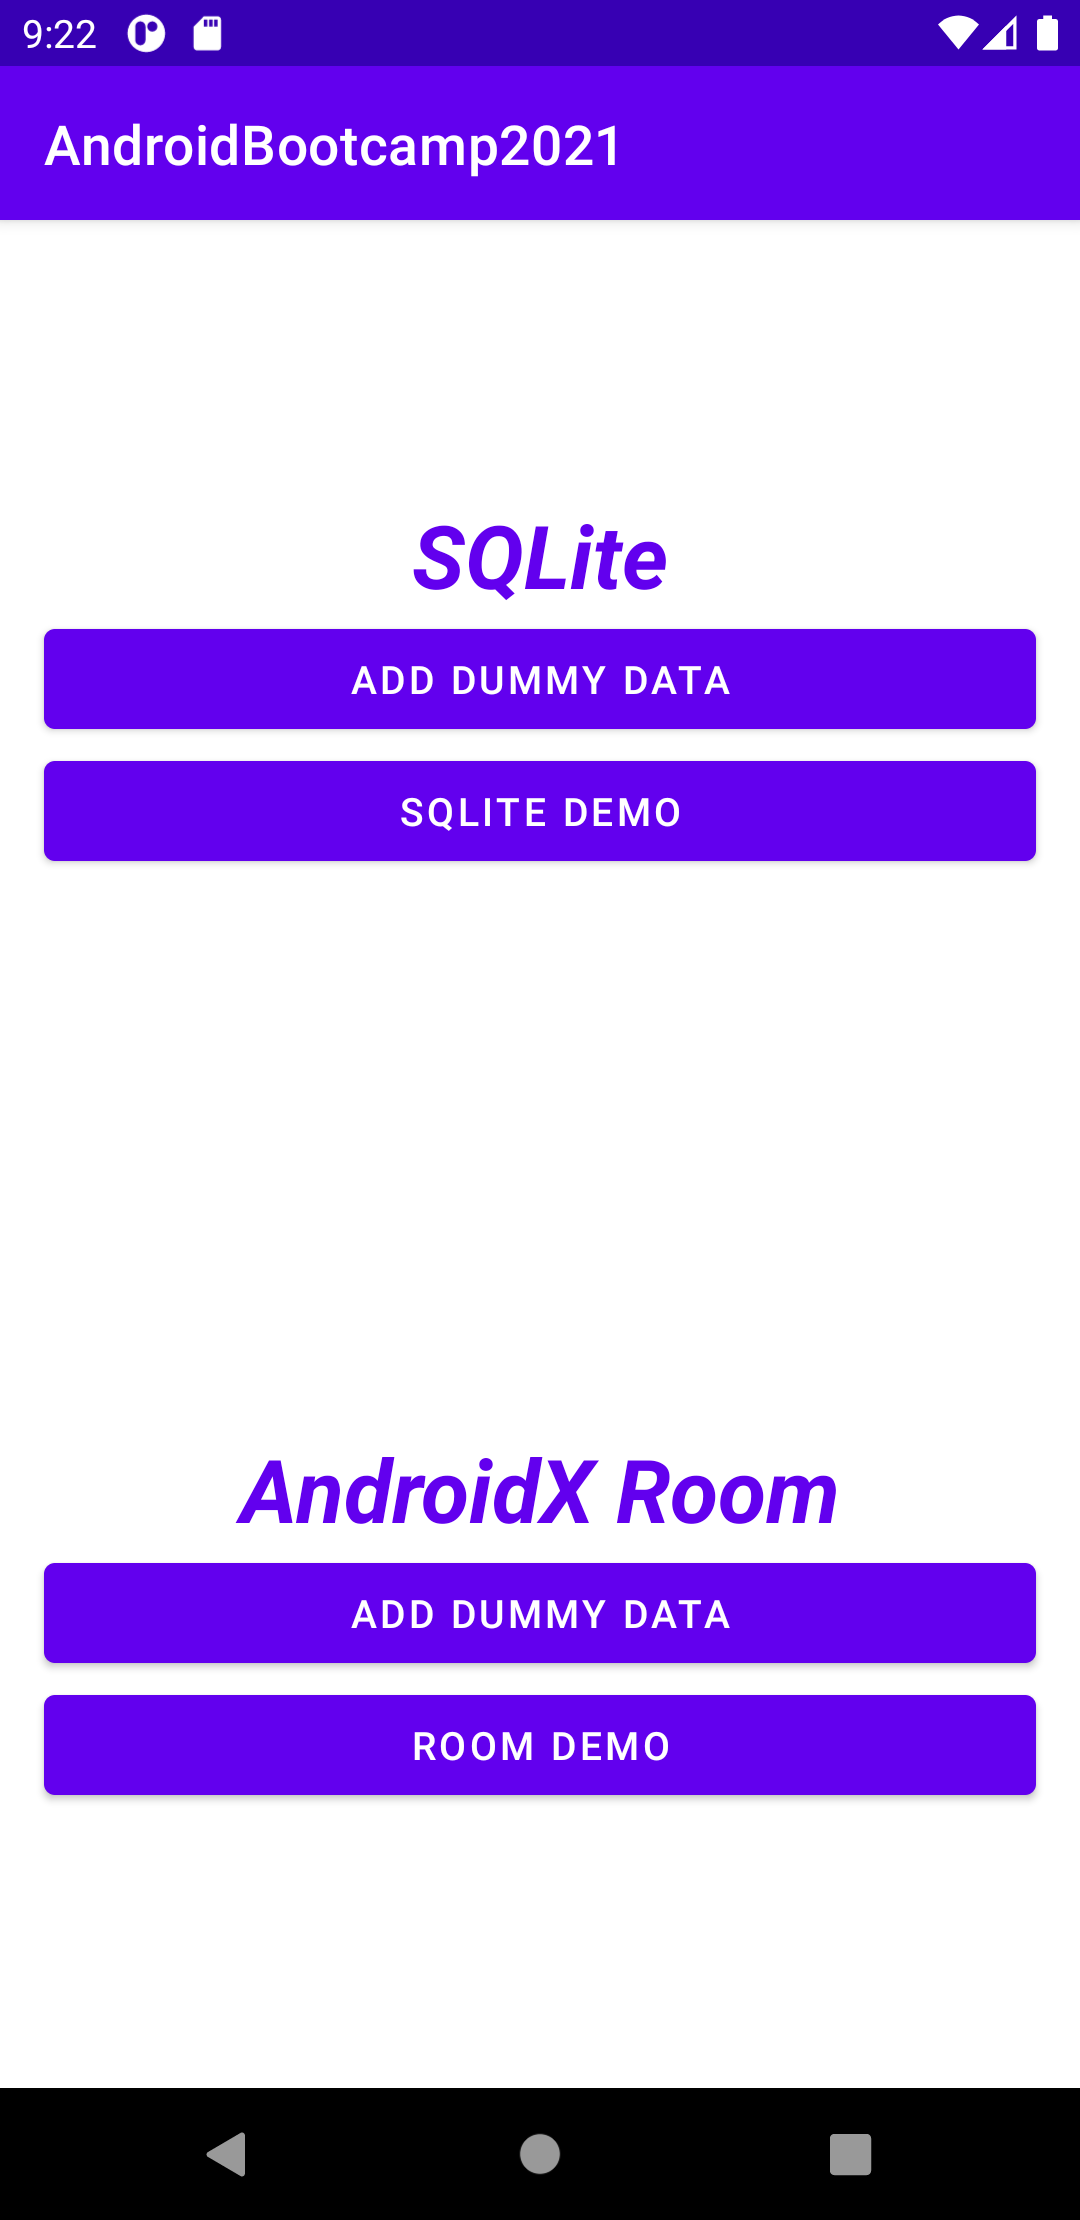
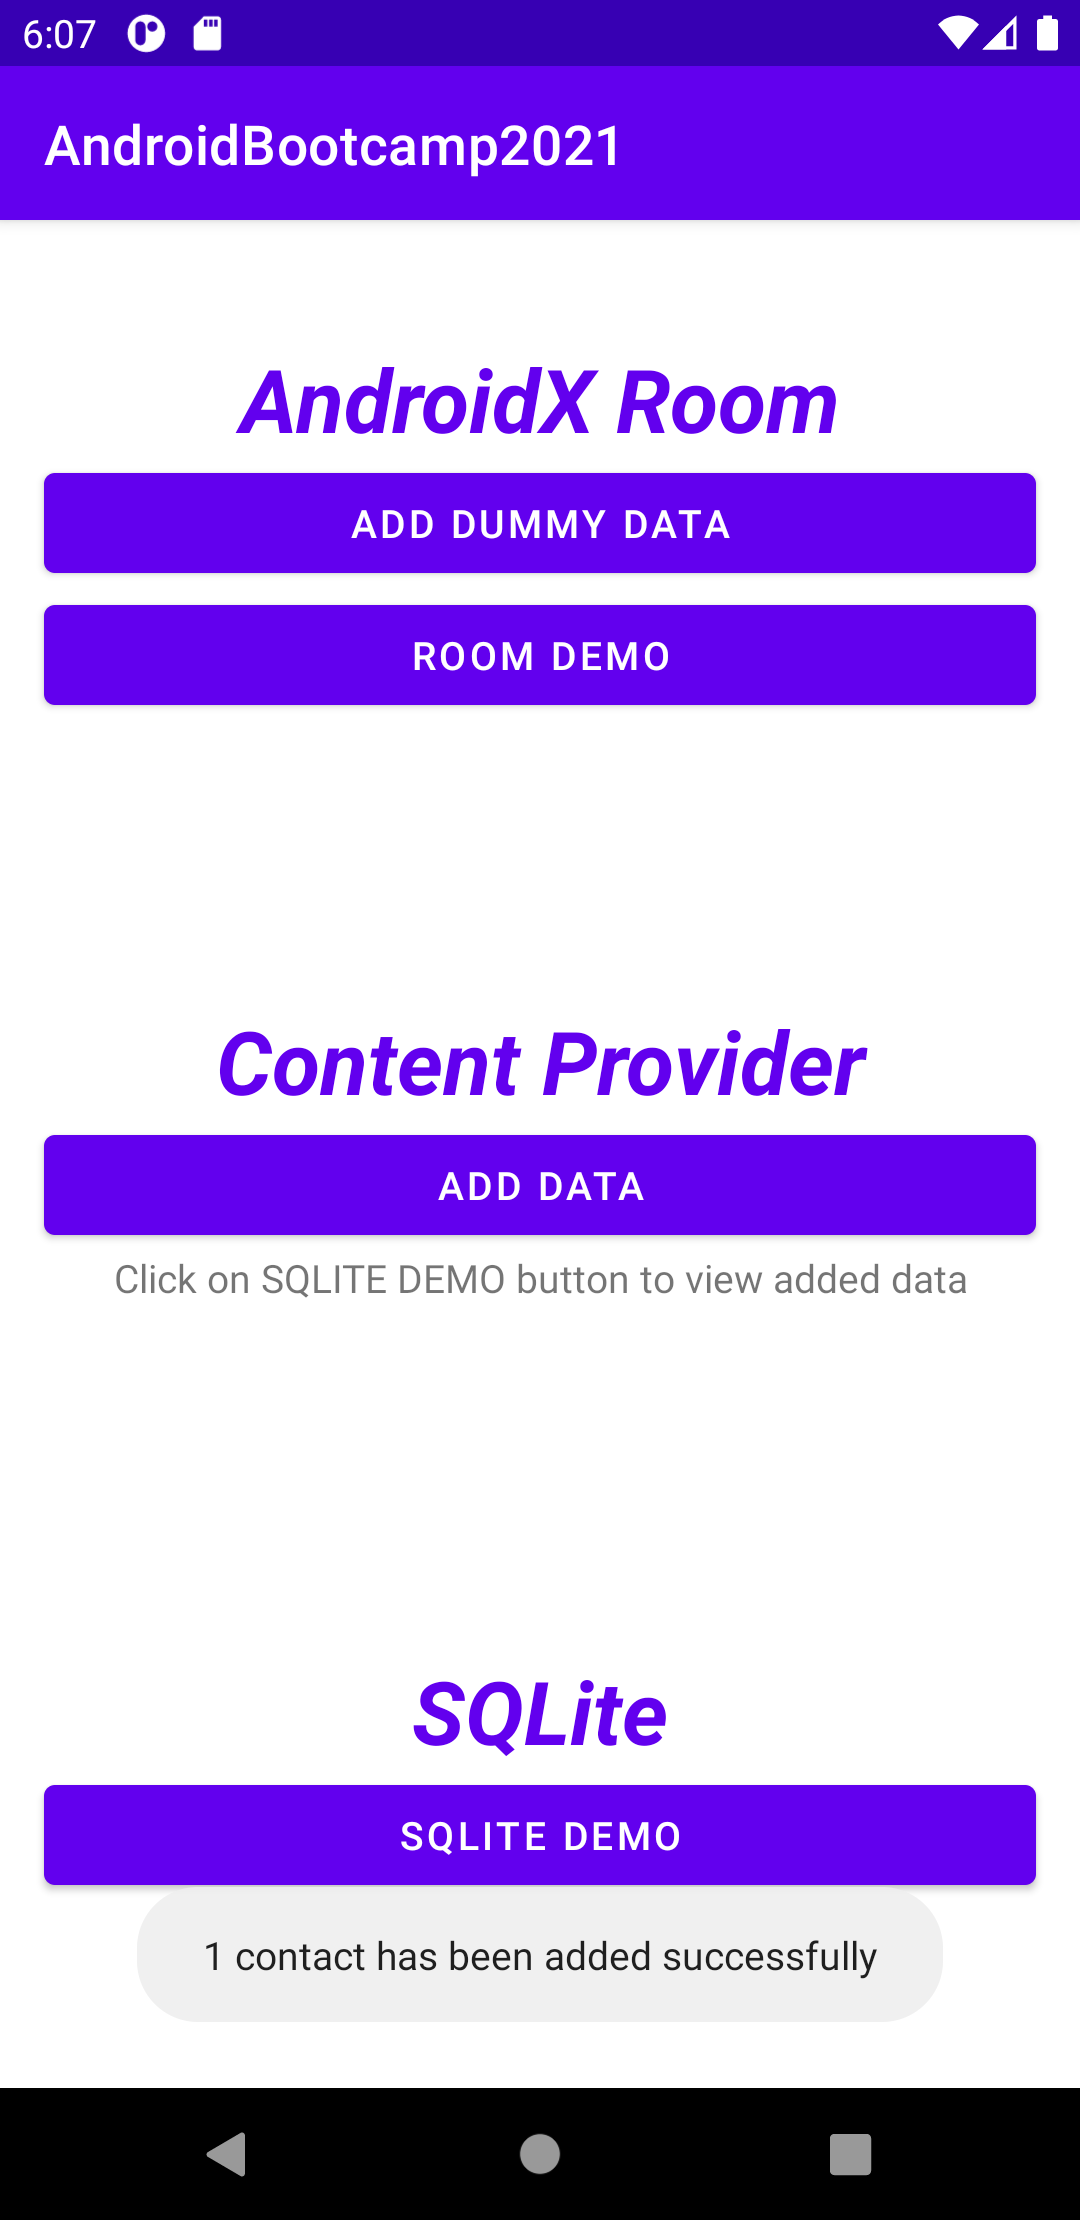
Added content provider demo with outputs

diff --git a/app/src/main/java/com/example/androidbootcamp2021/activities/MainActivity.kt b/app/src/main/java/com/example/androidbootcamp2021/activities/MainActivity.kt
@@ -1,13 +1,12 @@
 package com.example.androidbootcamp2021.activities
 
-import android.app.Activity
-import android.content.ContentResolver
+import android.Manifest
 import android.content.Intent
-import android.net.Uri
+import android.content.pm.PackageManager
+import android.os.Build
 import androidx.appcompat.app.AppCompatActivity
 import android.os.Bundle
-import android.util.Log
-import android.webkit.MimeTypeMap
+import android.provider.ContactsContract
 import android.widget.Toast
 import com.example.androidbootcamp2021.EmployeeDataClass
 import com.example.androidbootcamp2021.R
@@ -18,26 +17,20 @@ import java.util.concurrent.Executors
 
 class MainActivity : AppCompatActivity() {
 
-    val PICKFILE_REQUEST_CODE = 1
-    val TAG = "FilePickerActvity"
+    val TAG = "MainActivity"
+    val contactHashMap = HashMap<String, String>()
 
     override fun onCreate(savedInstanceState: Bundle?) {
         super.onCreate(savedInstanceState)
         setContentView(R.layout.activity_main)
 
-        // Using Kotlin Extensions so we don't
-        // need to get the reference of view
-        // We can directly use the id of view
-        addSQLiteDummyDataBtn.setOnClickListener {
-            insertDataInDBUsingSQLite()
-            Toast.makeText(this, "Data added successfully", Toast.LENGTH_LONG).show()
-        }
-
         sqliteDemoBtn.setOnClickListener {
-            startActivity(Intent(this, DatabaseActivity::class.java).putExtra(
-                BUTTON_CLICKED_KEY,
-                SQLITE_DEMO_BTN
-            ))
+            startActivity(
+                Intent(this, DatabaseActivity::class.java).putExtra(
+                    BUTTON_CLICKED_KEY,
+                    SQLITE_DEMO_BTN
+                )
+            )
         }
 
         addDummyRoomDataBtn.setOnClickListener {
@@ -46,116 +39,89 @@ class MainActivity : AppCompatActivity() {
         }
 
         roomDemoBtn.setOnClickListener {
-            startActivity(Intent(this, DatabaseActivity::class.java).putExtra(
-                BUTTON_CLICKED_KEY,
-                ROOM_DEMO_BTN
-            ))
+            startActivity(
+                Intent(this, DatabaseActivity::class.java).putExtra(
+                    BUTTON_CLICKED_KEY,
+                    ROOM_DEMO_BTN
+                )
+            )
         }
 
-        openFileBtn.setOnClickListener {
-            chooseFile()
+        contentProviderBtn.setOnClickListener {
+            loadContacts()
         }
 
 
     }
 
-    private fun chooseFile() {
-        var chooseFile = Intent(Intent.ACTION_GET_CONTENT)
-        chooseFile.type = "*/*"
-        chooseFile = Intent.createChooser(chooseFile, "Select a file")
-        startActivityForResult(chooseFile, PICKFILE_REQUEST_CODE)
+    private fun loadContacts() {
+        if (Build.VERSION.SDK_INT >= Build.VERSION_CODES.M && checkSelfPermission(
+                Manifest.permission.READ_CONTACTS) != PackageManager.PERMISSION_GRANTED) {
+            requestPermissions(arrayOf(Manifest.permission.READ_CONTACTS),
+                PERMISSIONS_REQUEST_READ_CONTACTS)
+            //callback onRequestPermissionsResult
+        } else {
+            val contactHM = getContacts()
+            if (contactHM.size > 0) {
+                for (contact in contactHM) {
+                    insertDataInDBUsingSQLite(contact.key, contact.value)
+                }
+                Toast.makeText(this, "${contactHM.size} contact has been added successfully", Toast.LENGTH_LONG).show()
+            }
+        }
     }
 
-    override fun onActivityResult(requestCode: Int, resultCode: Int, data: Intent?) {
-        super.onActivityResult(requestCode, resultCode, data)
+    override fun onRequestPermissionsResult(requestCode: Int, permissions: Array<out String>,
+                                            grantResults: IntArray) {
+        if (requestCode == PERMISSIONS_REQUEST_READ_CONTACTS) {
+            if (grantResults[0] == PackageManager.PERMISSION_GRANTED) {
+                loadContacts()
+            } else {
+                //  toast("Permission must be granted in order to display contacts information")
+                Toast.makeText(this, "Allow the permission from settings", Toast.LENGTH_LONG).show()
+            }
+        }
+    }
 
-        when (requestCode) {
-            PICKFILE_REQUEST_CODE -> {
-                if (resultCode == Activity.RESULT_OK) {
-                    val fileContentURI = data?.data
-                    Log.i(TAG, "File URI: $fileContentURI")
+    private fun getContacts(): HashMap<String, String> {
+        val resolver = contentResolver
+        val cursor =
+            resolver.query(ContactsContract.Contacts.CONTENT_URI, null, null, null, null)
+        if (cursor!!.count > 0) {
+            while (cursor.moveToNext()) {
+                val id = cursor.getString(cursor.getColumnIndex(ContactsContract.Contacts._ID))
+                val name =
+                    cursor.getString(cursor.getColumnIndex(ContactsContract.Contacts.DISPLAY_NAME))
+                val phoneNumber =
+                    cursor.getString(cursor.getColumnIndex(ContactsContract.Contacts.HAS_PHONE_NUMBER))
+                        .toInt()
 
-                    openFile(fileContentURI!!)
+                if (phoneNumber > 0) {
+                    val cursorPhone = contentResolver.query(
+                        ContactsContract.CommonDataKinds.Phone.CONTENT_URI,
+                        null,
+                        ContactsContract.CommonDataKinds.Phone._ID + "=?",
+                        arrayOf(id),
+                        null
+                    )
+
+                    if (cursorPhone!!.count > 0) {
+                        while (cursorPhone.moveToNext()) {
+                            val phoneNumValue = cursorPhone.getString(
+                                cursorPhone.getColumnIndex(ContactsContract.CommonDataKinds.Phone.NUMBER))
+                            //Log.i(TAG, "Contact: $name, $phoneNumValue")
+                            contactHashMap[phoneNumValue] = name
+                        }
+                    }
+                    cursorPhone.close()
                 }
             }
-
         }
-    }
-
-    private fun getType(fileContentURI: Uri): String {
-
-        return if (fileContentURI.scheme.equals(ContentResolver.SCHEME_CONTENT)) {
-            val cr = contentResolver
-            cr.getType(fileContentURI)!!
-        } else {
-            MimeTypeMap.getSingleton().getMimeTypeFromExtension(fileContentURI.toString())!!
+        else {
+            Toast.makeText(this, "No contacts available", Toast.LENGTH_SHORT).show()
         }
-    }
-
-    private fun openFile(uri: Uri) {
-
-        val intent = Intent(Intent.ACTION_VIEW)
-        val fileType = getType(uri)
-        val splitType = fileType.split("/")[1]
-        val fileExtension = ".$splitType"
-
-
-        Log.i(TAG, "File Type: $fileType")
-        Log.i(TAG, "File Extension: $fileExtension")
-
-        // Check what kind of file you are trying to open, by comparing the fileExtension with extensions.
-        // When the if condition is matched, plugin sets the correct intent (mime) type,
-        // so Android knew what application to use to open the file
-        if (fileExtension.toString().contains(".doc") || fileExtension.toString().contains(".docx")) {
-            // Word document
-            intent.setDataAndType(uri, "application/msword");
-        } else if (fileExtension.toString().contains(".pdf")) {
-            // PDF file
-            intent.setDataAndType(uri, "application/pdf");
-        } else if (fileExtension.toString().contains(".ppt") || fileExtension.toString().contains(".pptx")) {
-            // Powerpoint file
-            intent.setDataAndType(uri, "application/vnd.ms-powerpoint");
-        } else if (fileExtension.toString().contains(".xls") || fileExtension.toString().contains(".xlsx")) {
-            // Excel file
-            intent.setDataAndType(uri, "application/vnd.ms-excel");
-        } else if (fileExtension.toString().contains(".zip") || fileExtension.toString().contains(".rar")) {
-            // WAV audio file
-            intent.setDataAndType(uri, "application/x-wav");
-        } else if (fileExtension.toString().contains(".rtf")) {
-            // RTF file
-            intent.setDataAndType(uri, "application/rtf");
-        } else if (fileExtension.toString().contains(".wav") || fileExtension.toString().contains(".mp3")) {
-            // WAV audio file
-            intent.setDataAndType(uri, "audio/x-wav");
-        } else if (fileExtension.toString().contains(".gif")) {
-            // GIF file
-            intent.setDataAndType(uri, "image/gif");
-        } else if (fileExtension.toString().contains(".jpg") || fileExtension.toString()
-                .contains(".jpeg") || fileExtension.toString().contains(".png")
-        ) {
-            // JPG and PNG file
-            intent.setDataAndType(uri, "image/jpeg");
-            Log.i(TAG, "Image selected")
-        } else if (fileExtension.toString().contains(".txt")) {
-            // Text file
-            intent.setDataAndType(uri, "text/plain");
-        } else if (fileExtension.toString().contains(".3gp") || fileExtension.toString()
-                .contains(".mpg") || fileExtension.toString().contains(".mpeg") || fileExtension.toString()
-                .contains(".mpe") || fileExtension.toString().contains(".mp4") || fileExtension.toString()
-                .contains(".avi")
-        ) {
-            // Video files
-            intent.setDataAndType(uri, "video/*");
-        } else {
-            //if you want you can also define the intent type for any other file
-
-            //additionally use else clause below, to manage other unknown extensions
-            //in this case, Android will show all applications installed on the device
-            //so you can choose which application to use
-            intent.setDataAndType(uri, "*/*");
-        }
-        intent.addFlags(Intent.FLAG_ACTIVITY_NEW_TASK)
-        startActivity(intent)
+        cursor.close()
+        return contactHashMap
     }
 
     private fun insertDataInDBUsingRoom() {
@@ -187,7 +153,7 @@ class MainActivity : AppCompatActivity() {
         }
     }
 
-    private fun insertDataInDBUsingSQLite() {
+    private fun insertDataInDBUsingSQLite(key: String, value: String) {
 
         val databaseManager =
             SQLiteDatabaseManager(this)
@@ -195,23 +161,9 @@ class MainActivity : AppCompatActivity() {
         // insert data in DB
         databaseManager.insertValue(
             EmployeeDataClass(
-                name = "Shubham Pandey",
-                contact = "9912345678",
+                name = value,
+                contact = key,
                 address = "New Delhi"
-            )
-        )
-        databaseManager.insertValue(
-            EmployeeDataClass(
-                name = "Gaurav Rawat",
-                contact = "123456789",
-                address = "Delhi"
-            )
-        )
-        databaseManager.insertValue(
-            EmployeeDataClass(
-                name = "Pawan Gupta",
-                contact = "3264464789",
-                address = "Noida"
             )
         )
     }
@@ -220,5 +172,6 @@ class MainActivity : AppCompatActivity() {
         const val BUTTON_CLICKED_KEY = "BUTTON_CLICKED"
         const val SQLITE_DEMO_BTN = "SQLITE_DEMO_BTN"
         const val ROOM_DEMO_BTN = "ROOM_DEMO_BTN"
+        const val PERMISSIONS_REQUEST_READ_CONTACTS = 100
     }
 }

diff --git a/README.md b/README.md
@@ -17,11 +17,10 @@
 ##### Room Demo	
 <img src="output3.gif" width="300" height="600" />
 
-* Content Provider Demo
-	1. Create an app to show list of file & folders in a user’s device.
-	2. User can navigate the structure
-	3. If a user clicks a file, try to open the file with a relevant app
-	4. Save one image file inside app’s private space and one in internal memory
-	5. Try sharing both the files on different share button click
-
-*_To be updated..._*
+#### Content Provider Demo
+* Make an application using Content provider with following features:
+	1. Add user information like Name, mobile number from the contacts list.
+	2. Display all inserted record in RecyclerView and each item have edit and delete button..
+	3. On delete button clicked - delete record from table and refresh list Data.
+	4. On edit button clicked - update record in table and refresh list Data.
+<img src="content_provider_demo.gif" width="300" height="600" />
